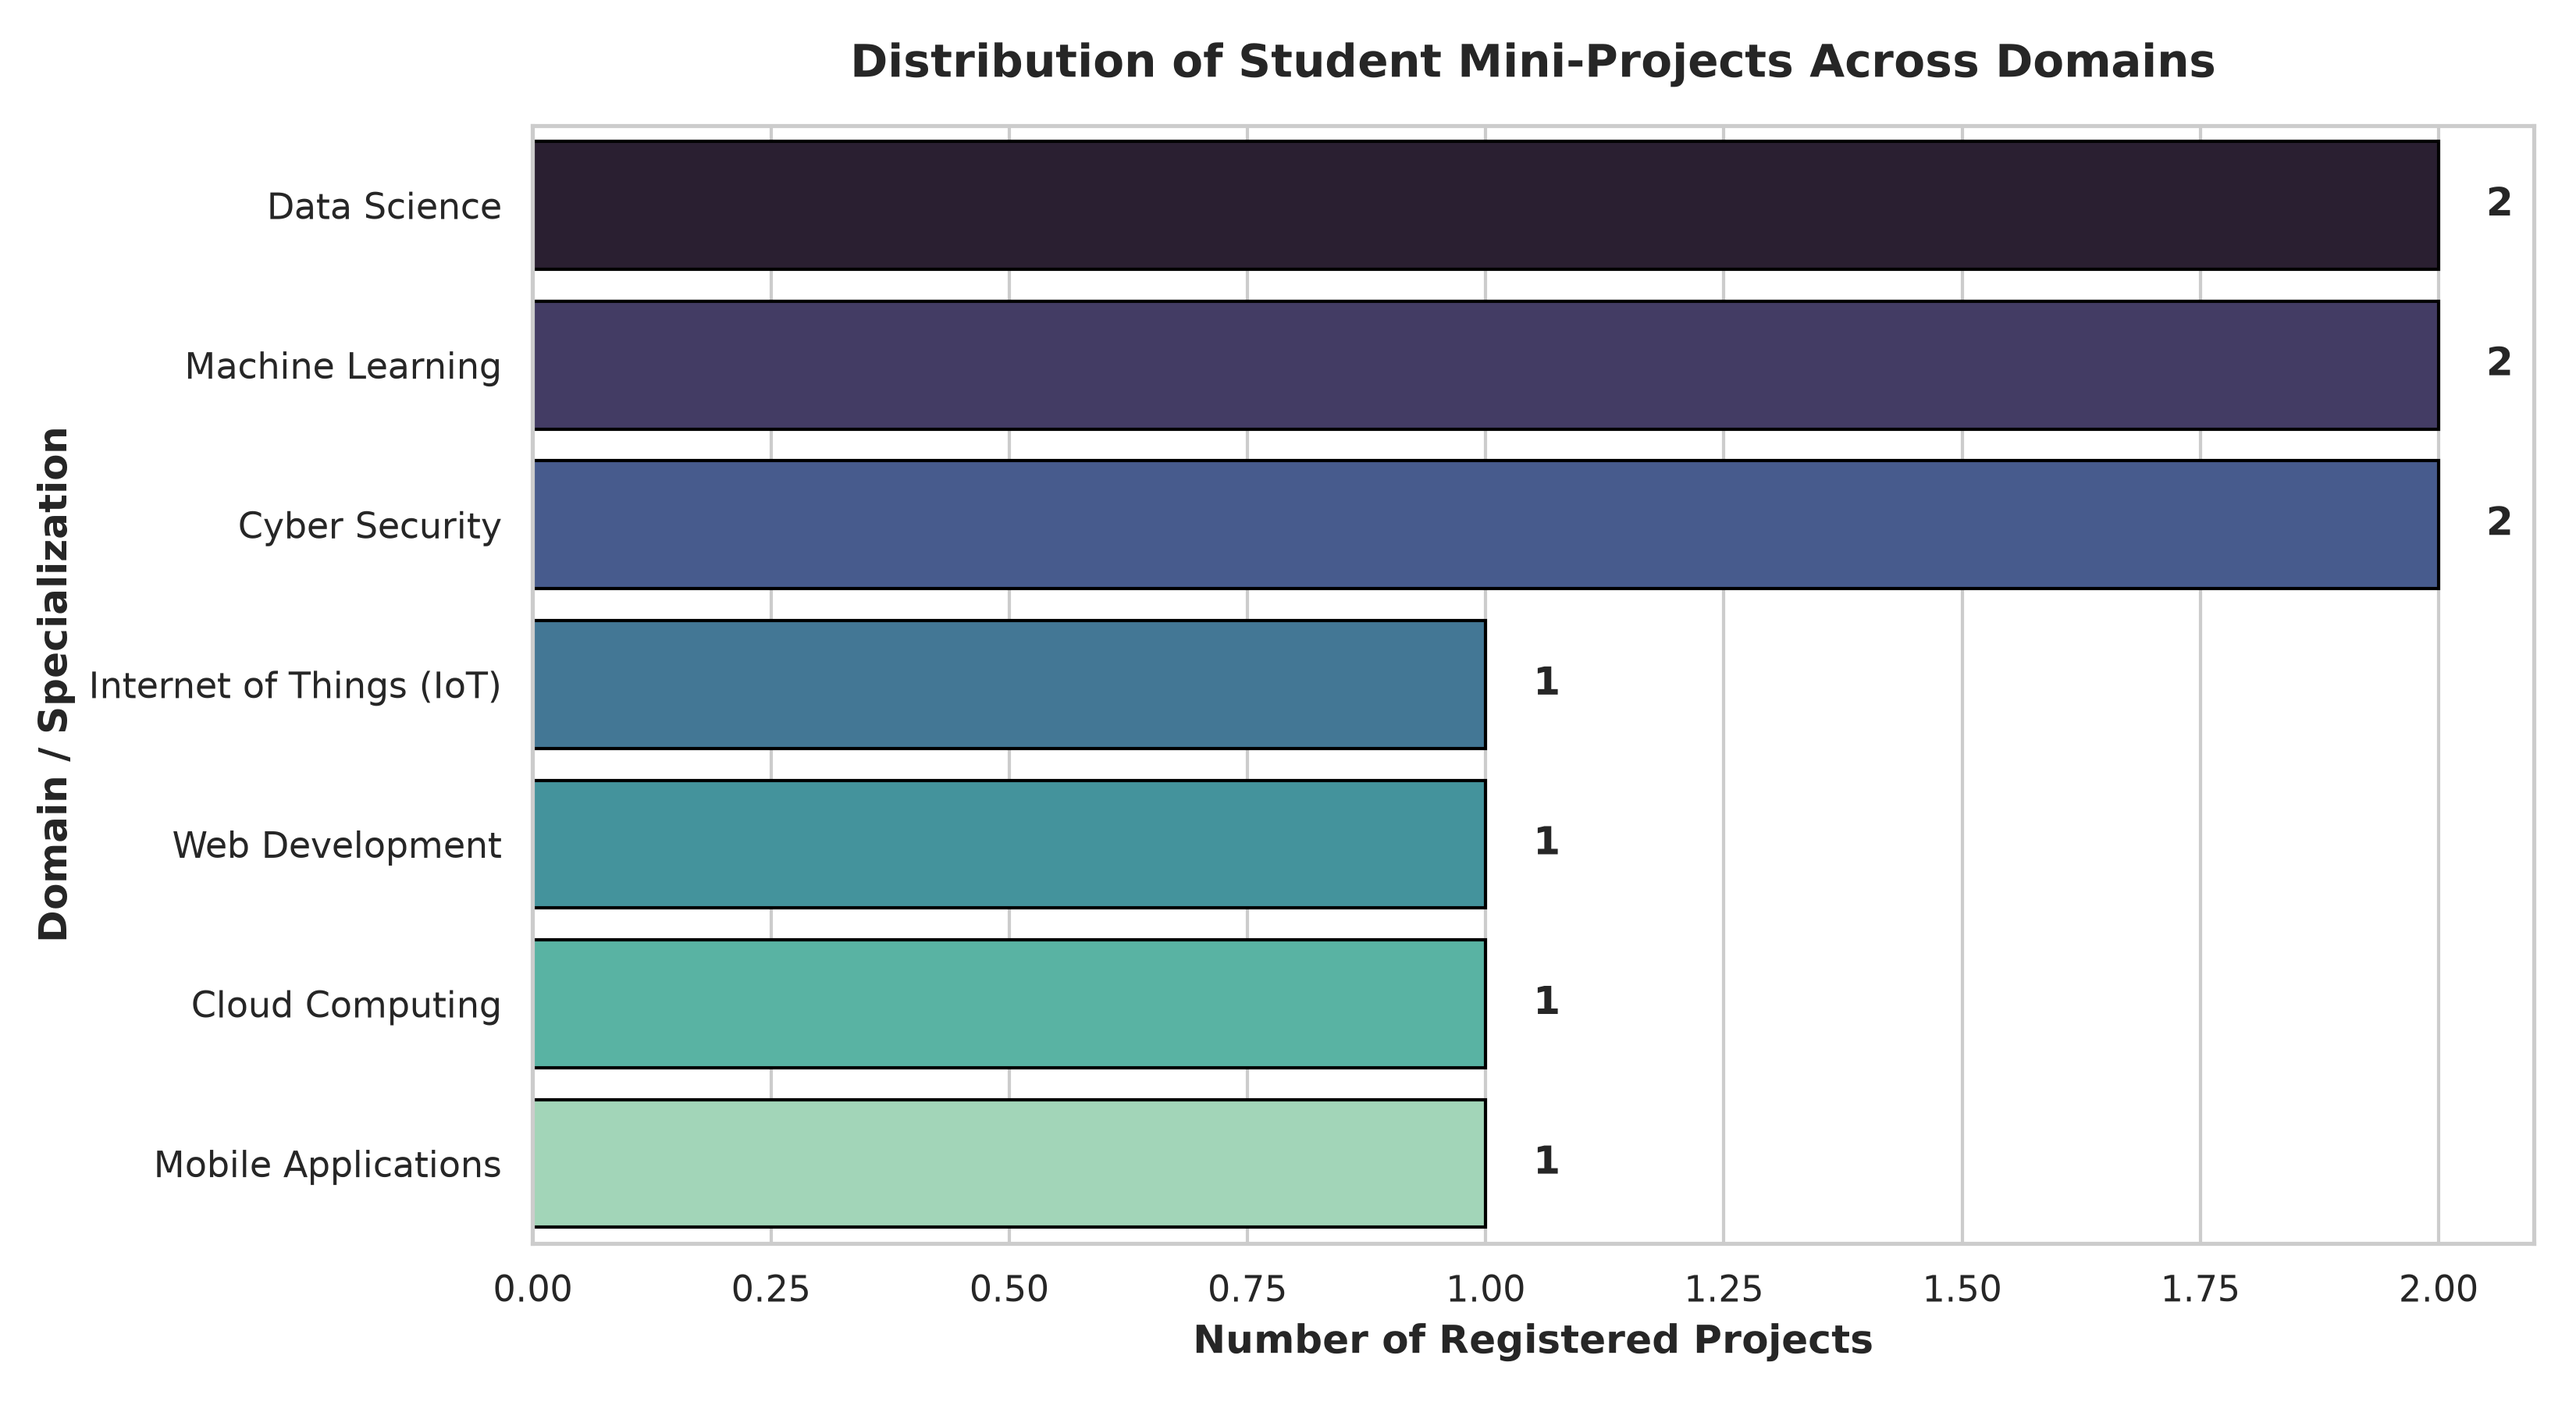
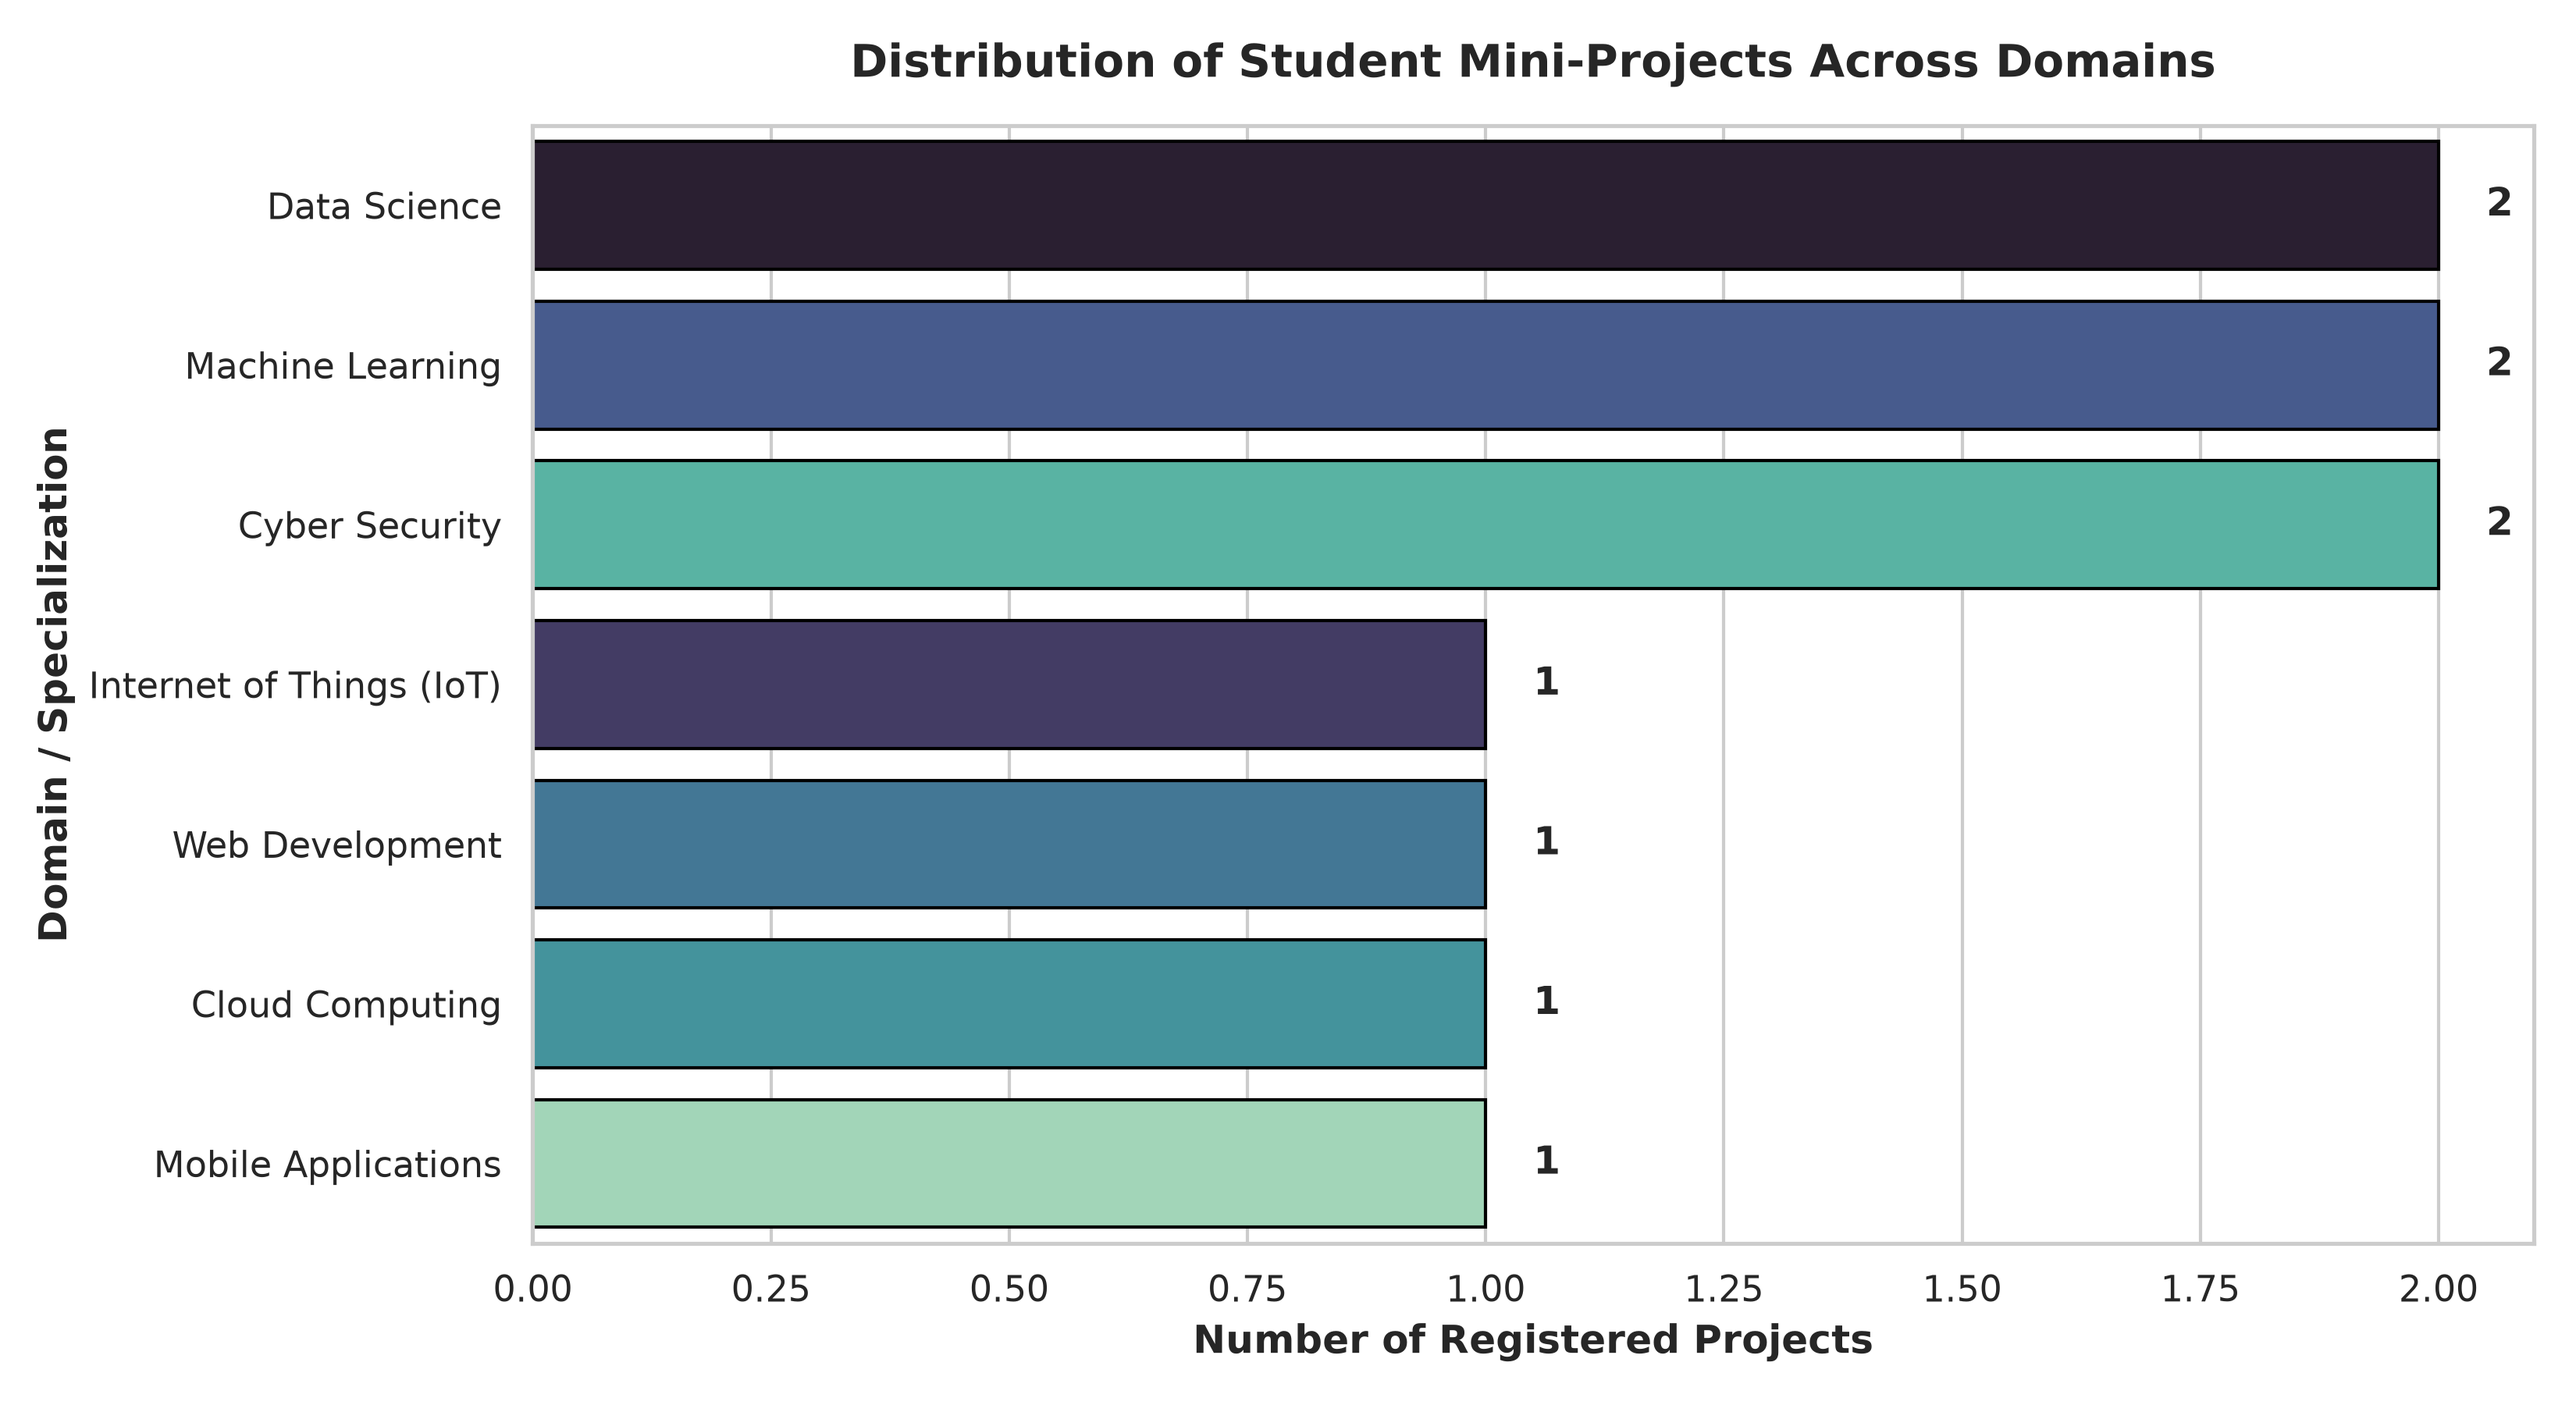
fix: batch scripts escaping and clean visualization formatting

Changed region(s): [[0.1873, 0.2178, 0.9676, 0.7778]]

diff --git a/python/data_analysis.py b/python/data_analysis.py
@@ -158,7 +158,7 @@ def generate_visualizations(data):
     plt.figure(figsize=(10, 6))
     tech_counts = df_student_skills['skill_name'].value_counts().head(10)
     
-    ax = sns.barplot(x=tech_counts.values, y=tech_counts.index, palette="viridis", edgecolor="black")
+    ax = sns.barplot(x=tech_counts.values, y=tech_counts.index, hue=tech_counts.index, palette="viridis", legend=False, edgecolor="black")
     plt.title("Top 10 Technical Skills & Technologies Chosen by Students", fontsize=14, weight='bold', pad=15)
     plt.xlabel("Number of Students Possessing Skill", fontsize=12, weight='bold')
     plt.ylabel("Technology / Programming Language", fontsize=12, weight='bold')
@@ -208,7 +208,7 @@ def generate_visualizations(data):
     # =========================================================================
     plt.figure(figsize=(11, 6))
     domain_order = df_projects['domain'].value_counts().index
-    ax = sns.countplot(data=df_projects, y='domain', order=domain_order, palette="mako", edgecolor="black")
+    ax = sns.countplot(data=df_projects, y='domain', order=domain_order, hue='domain', palette="mako", legend=False, edgecolor="black")
     plt.title("Distribution of Student Mini-Projects Across Domains", fontsize=14, weight='bold', pad=15)
     plt.xlabel("Number of Registered Projects", fontsize=12, weight='bold')
     plt.ylabel("Domain / Specialization", fontsize=12, weight='bold')
@@ -242,6 +242,7 @@ def generate_visualizations(data):
     rubric_names = ['Survey\n(20)', 'Design\n(20)', 'Impl\n(30)', 'Testing\n(20)', 'Viva\n(10)']
     
     sns.boxplot(data=df_evaluations[rubric_cols], ax=axes[1], palette="Set2")
+    axes[1].set_xticks(range(len(rubric_names)))
     axes[1].set_xticklabels(rubric_names, fontsize=10, weight='bold')
     axes[1].set_title("Component-Wise Assessment Mark Spread", fontsize=12, weight='bold')
     axes[1].set_ylabel("Marks Awarded", fontsize=11, weight='bold')
